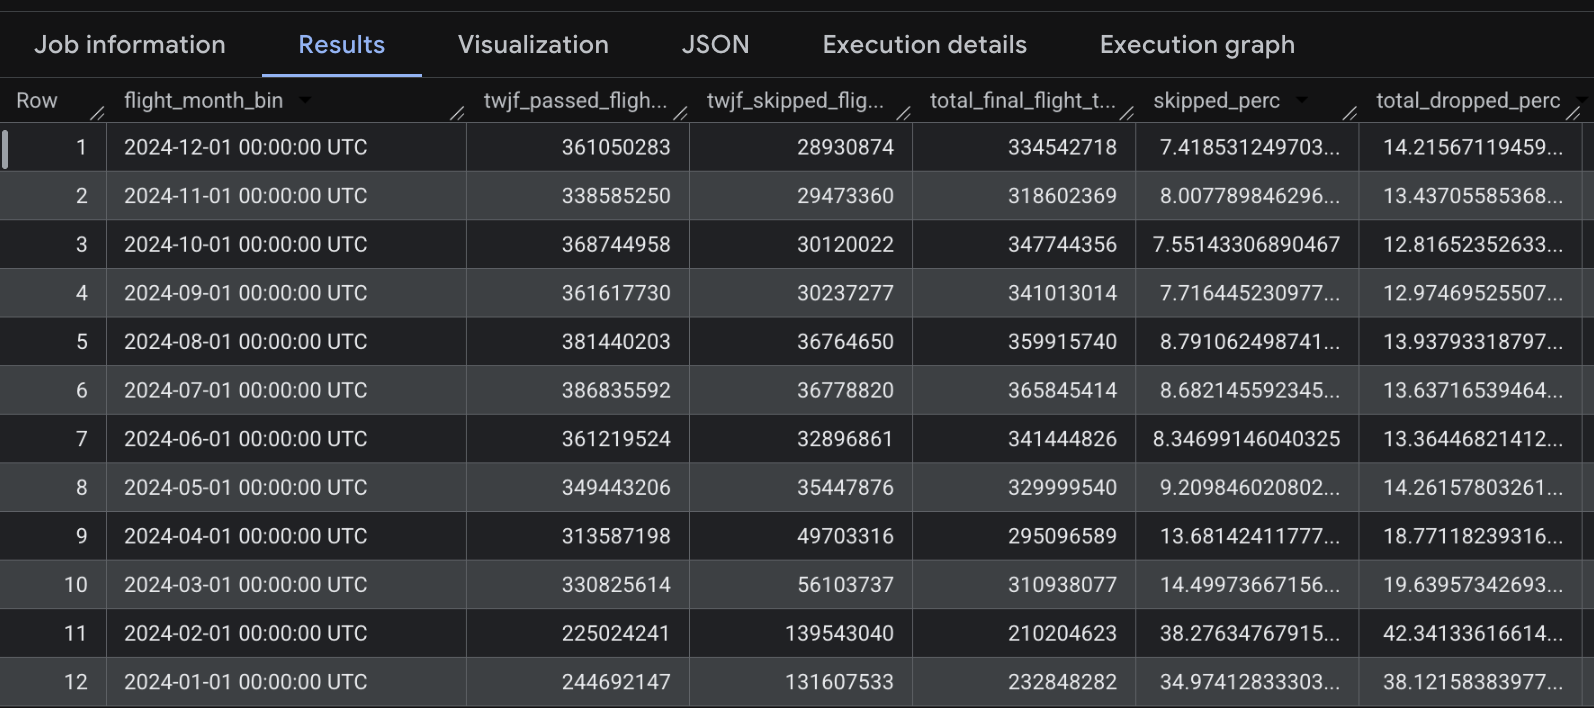
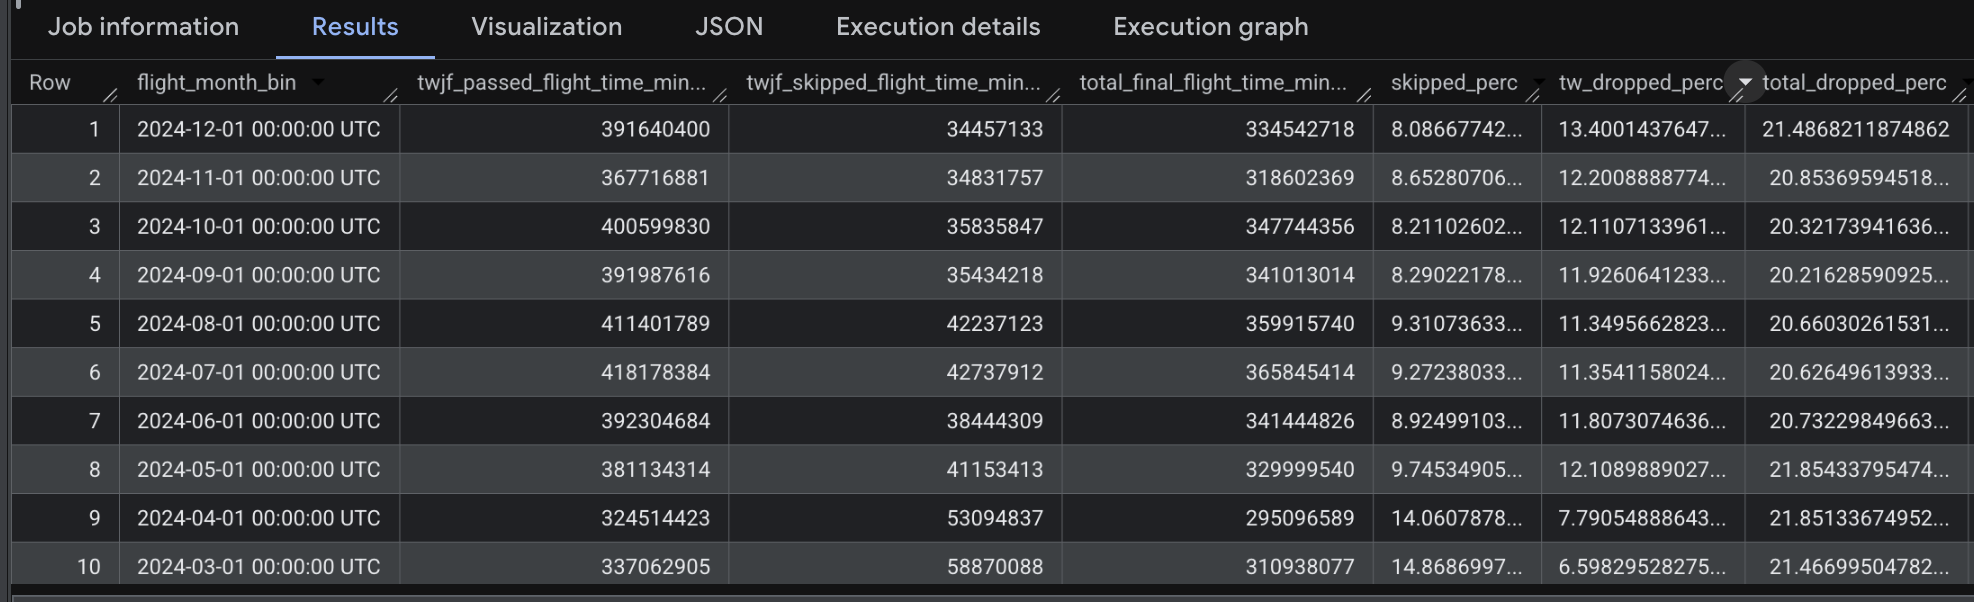
Updating bq_load_example.sh script with what I used to make a new logs table. Updated analysis scripts and outputs based on updated logs table which includes null airport_iata data.

diff --git a/pipeline-playbook/notes_archive/inventory_2024_run_feb2026/README.md b/pipeline-playbook/notes_archive/inventory_2024_run_feb2026/README.md
@@ -173,11 +173,20 @@ to hold the per-flight summary values.
 
 The [raw output stats](#raw-output-stats) section above was generated from the initial export to this table.
 
-Next, the dataset was dedupes with Step 1 and Step 2 of [post_process/sql/dedupe.sql](../../post_process/sql/dedupe.sql).
+Next, the dataset was deduped with Step 1 and Step 2 of [post_process/sql/dedupe.sql](../../post_process/sql/dedupe.sql).
 As noted in the [playbook/README.md](../../playbook/README.md), Step 1 will have no effect
 with future updates to the TWJF, and Step 2 will only remove normal dupes (not airline_iata conflicts).
 
 ## Log Archiving
 As per instructions in the [playbook/README.md](../../playbook/README.md).
 
-TWJF, TW and TW-backup logs were selectively copied to `contrails-301217-sandbox-internal/flights-pipeline/inventory_2024_run_feb2026`
+TWJF, TW and TW-backup logs were selectively copied to `contrails-301217-sandbox-internal/flights-pipeline/inventory_2024_run_feb2026`. Using the [bq_load_example.sh](../../post_process/logs_to_bq/bq_load_example.sh) script, we created a logs table in BQ (`contrails-301217.flights_pipeline_prod.twjf_2024_logs_feb2026`) containing both run 1 and run 2 data (with `airline_iata` not null, and null respectively). That 
+
+# Initial analysis queries
+
+To get the total minutes of flight time processed and skipped by TWJF and TW, run [total_time_and_skipped.sql](../../post_process/sql/total_time_and_skipped.sql) as described in the [logs_to_bq README](../../post_process/logs_to_bq/README.md).
+
+To check on TWJF skip reasons, binned by reason and month, run 
+[skipped_reasons_by_month.sql](../../post_process/sql/skipped_reasons_by_month.sql) as described in the [logs_to_bq README](../../post_process/logs_to_bq/README.md).
+
+To compare the flights-pipleine results with Roger's GAIA analysis, run [compare_with_gaia.sql](../../post_process/sql/compare_with_gaia.sql).

diff --git a/pipeline-playbook/post_process/logs_to_bq/README.md b/pipeline-playbook/post_process/logs_to_bq/README.md
@@ -37,7 +37,7 @@ Here is an example flow.
 Load all the newline JSON log files for a given run into a BQ table.
 See this [bq load command](bq_load_example.sh).
 
-Note that we use the `twjd_logs_bq_schema.json`, which drops several of the `jsonPayload` fields (those affected by [#Limitations](#limitations)).
+Note that we use the `twjd_logs_bq_schema_lean.json`, which drops several of the `jsonPayload` fields (those affected by [#Limitations](#limitations)).
 
 Even with those fields missing, we can do some powerful initial analysis (and if those fields were added in the future, we could extend BQ to handle those fields).
 